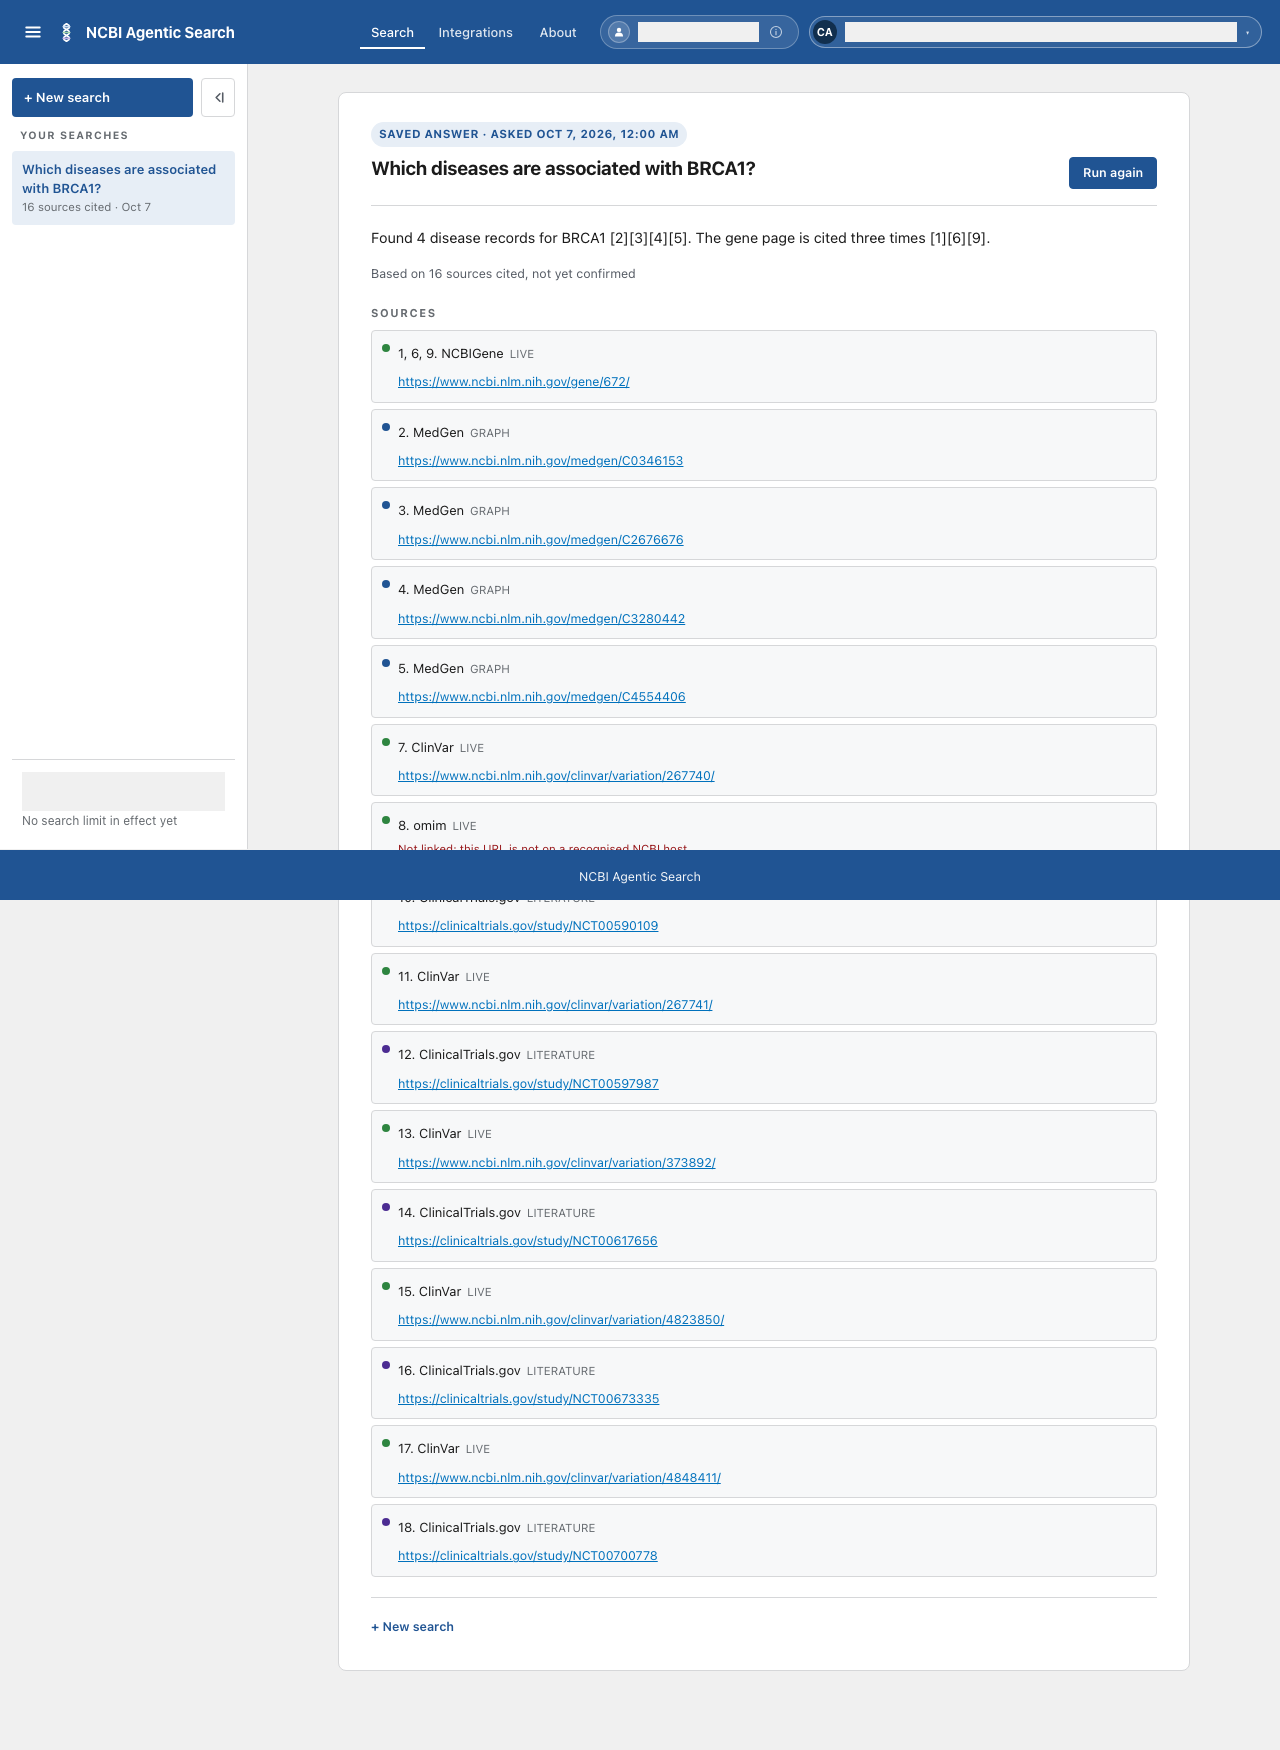
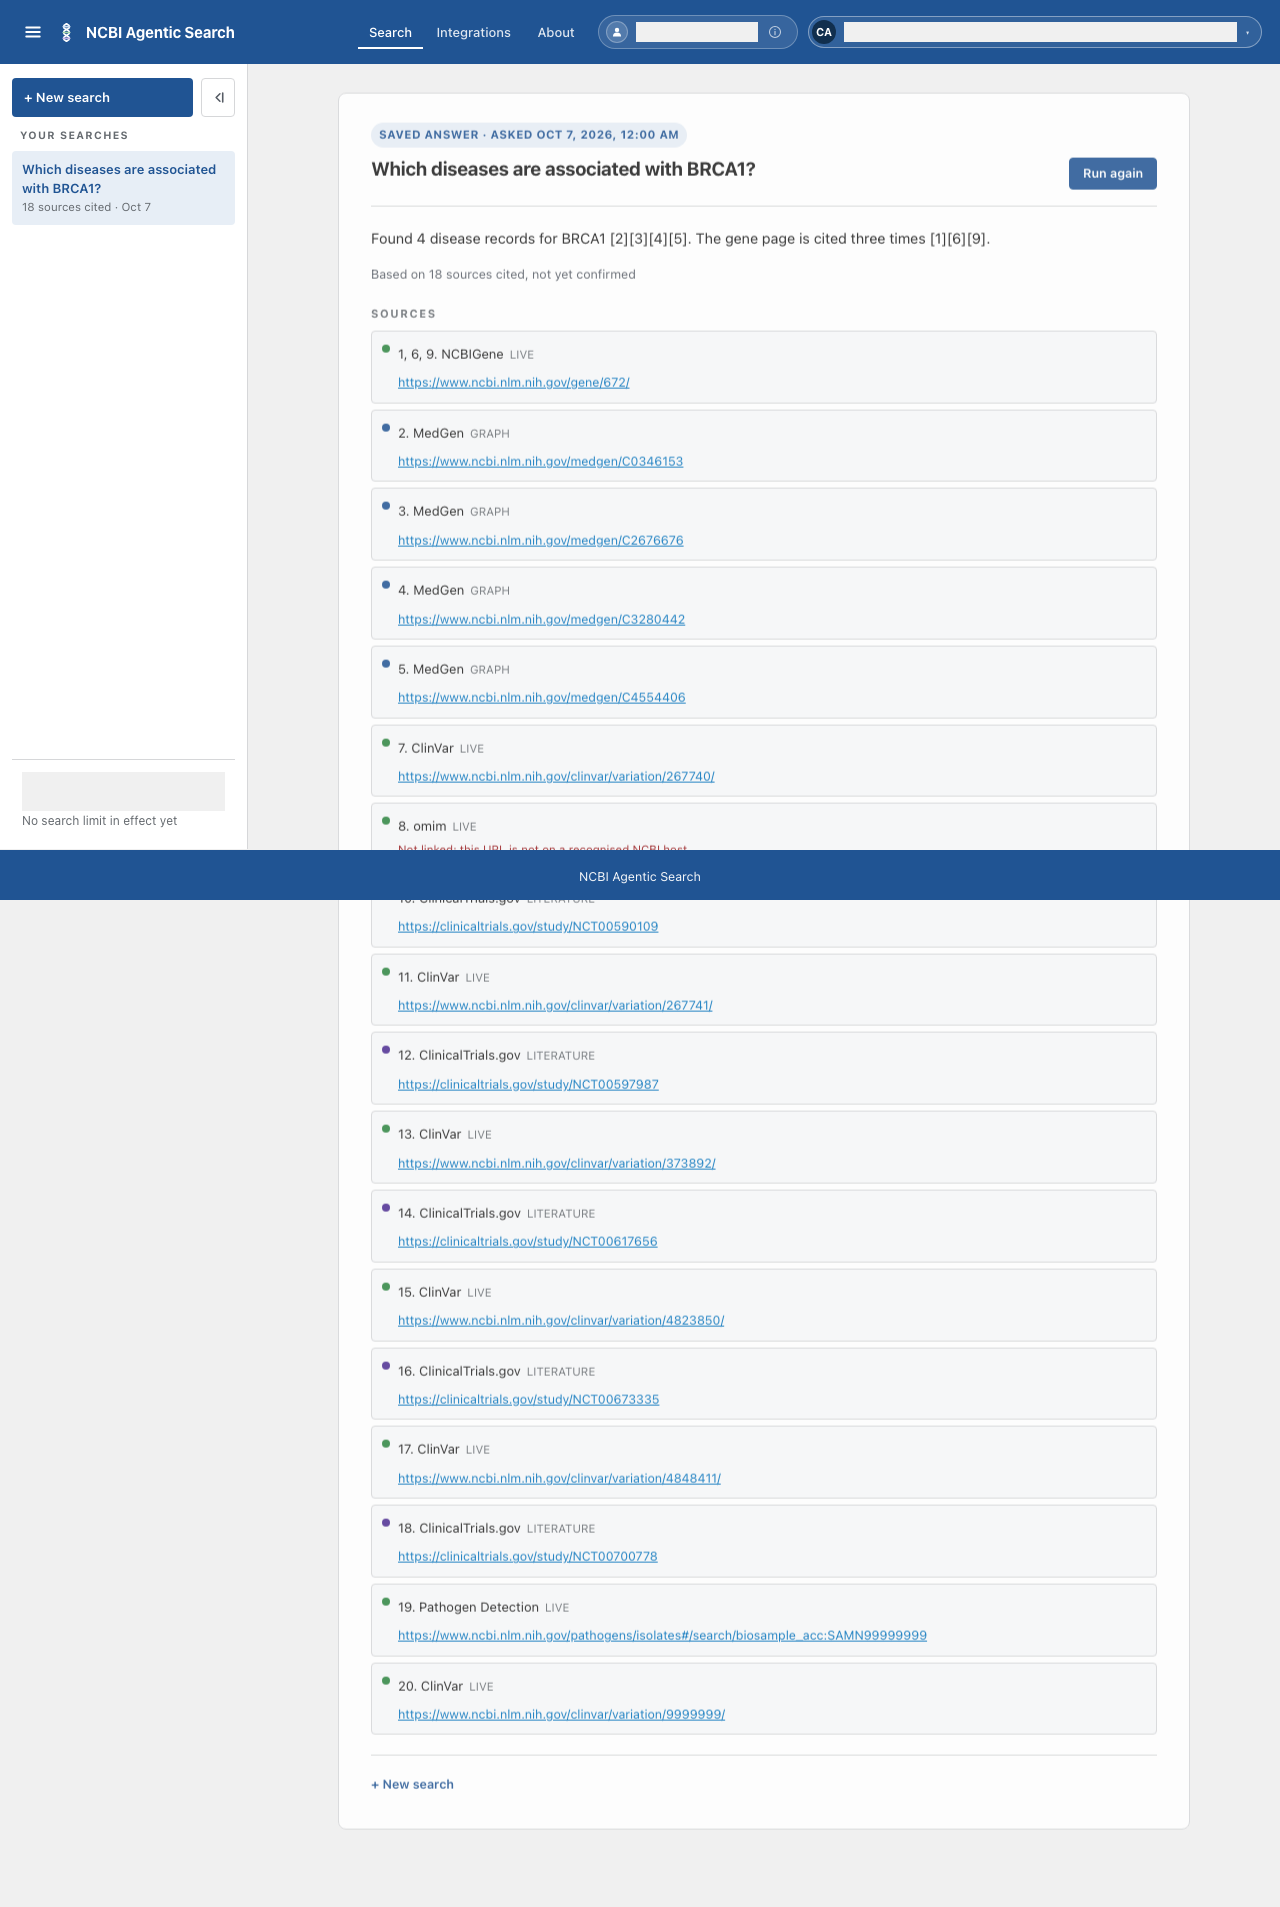
docs(card102): Record the phone width follow-up and retake the saved answer at 1280 and 390

Changed region(s): [[0.0, 0.0, 1.0, 0.9566]]

diff --git a/testing/Developer/reports/2026-10-07_card102/build.md b/testing/Developer/reports/2026-10-07_card102/build.md
@@ -10,6 +10,7 @@ Card 102, found by card 22's product review on deployed develop (PR-card22-02): 
 - [End to end at 1280 and 390](#end-to-end-at-1280-and-390)
 - [Gates](#gates)
 - [Found along the way](#found-along-the-way)
+- [Phone width follow-up](#phone-width-follow-up)
 
 ## Cause
 
@@ -101,3 +102,27 @@ So the 7 failures are on develop already and are not caused by this card.
 - On a phone, tapping a past search leaves the Your searches panel open over the answer, and the page behind it is hidden from screen readers until the panel is closed. Measured at 390: one open dialog and `#root` `aria-hidden` after the tap. The spec closes the panel the way a person would. Not fixed here; it is a separate card if the owner wants it.
 - `e2e/citations-and-writing.spec.ts` rewrites six committed screenshots under `testing/Developer/reports/2026-09-14_citations_and_writing/` every time it runs. They were restored, not committed.
 - The board row for card 102 points at `testing/Developer/reports/2026-10-06_card22/product_review.md`, which is still untracked in the main checkout.
+
+## Phone width follow-up
+
+The fresh verifier's finding F-102-V-05 (`verify.md`): on a phone, a saved answer's source links ran past their row, and a Pathogen Detection isolate link scrolled the page sideways. A URL has no spaces, so it never broke.
+
+- Fix: `frontend/src/components/screens/SavedAnswerScreen.tsx:190`, the row's link takes `overflowWrap: "anywhere"`, the live answer's own rule for long unbroken strings (its claim text and its phone source names in `AnswerScreen.tsx`), at every width.
+- Spec: `frontend/e2e/card102-saved-answer-sources.spec.ts` adds two pages with the longest real link shapes and fake IDs: the isolate link `_build_isolate_source_url` builds (`.../pathogens/isolates#/search/biosample_acc:SAMN99999999`) and a seven-digit ClinVar variation. It now checks every link's right edge against its row as well as the page's sideways scroll, at 1280 and 390. The trust line and rows read 18.
+
+| Width | Before the fix | After the fix |
+|---|---|---|
+| 390 | page overflow 201 px; 7 links past their row: the isolate link by 236 px, six ClinVar links by 21 to 34 px | 0 px; 0 links |
+| 1280 | 0 px; 0 links | 0 px; 0 links |
+
+- The spec went red at 390 before the fix and passes 2 of 2 after it. No link in this fixture is long enough to wrap at 1280, so the 1280 run shows no regression; the 390 run is the one that proves the wrap works.
+- Screenshots retaken: `saved_answer_1280.png` and `saved_answer_390.png`. At 390 every link wraps inside its card.
+- Not touched: the saved query 107 table's overflow, a separate item.
+
+| Gate | Tail |
+|---|---|
+| gate08 frontend | built; 60 files, 521 tests passed; license notices ok |
+| card 102 e2e spec | 2 passed, ports 5273 and 8931 free first |
+| gate03 ruff | "All checks passed!" |
+| Leak scan | "PASS: nothing to publish looks like a secret or a private value", 0 findings; both new screenshots looked at by eye, the test account masked at 1280 and not on screen at 390 |
+| check_doc_sync | "ok: the board, the done file, the test queries, the board plan, the Factory brief, the handoff and the registry agree" |
